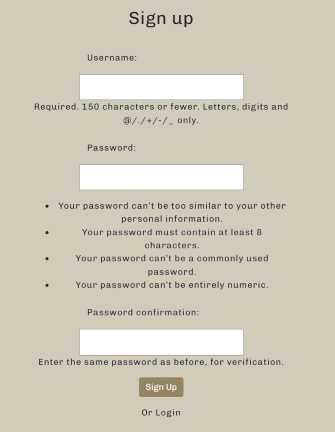
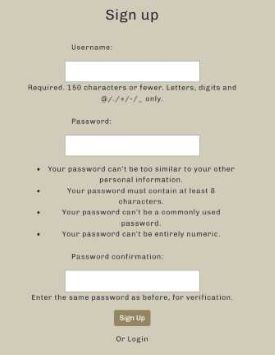
Add style to css and Update redeme

Changed region(s): [[0.4364, 0.031, 0.4945, 0.062], [0.64, 0.2169, 0.6691, 0.2479], [0.4073, 0.4958, 0.4364, 0.5268]]

diff --git a/templates/base.html b/templates/base.html
@@ -15,44 +15,45 @@
   <title>{{ page_title }}</title>
 </head>
 
+</head>
+
 <body>
   <!-- Hero Image -->
   <div class="hero-image" style="background-image: url('{% static 'images/galaxy.jpg' %}')"></div>
-  
-<!-- Header Section -->
-<div class="container-fluid">
-  <div class="row">
-    <div class="col bold">
-      <!-- header content -->
-      <div class="container-lg my-5 header">
-        <h1><a href="{% url 'index' %}" class="text-decoration-none">Sci Fi Book Club</a></h1>
+
+  <!-- Header Section -->
+  <div class="container-fluid">
+    <div class="row">
+      <div class="col bold">
+        <!-- header content -->
+        <div class="container-lg my-5 header">
+          <h1><a href="{% url 'index' %}" class="text-decoration-none">Sci Fi Book Club</a></h1>
+        </div>
+        <!-- navigation menu -->
+        <ul class="nav justify-content-center text-center">
+          <li class="nav-item">
+            <a class="nav-link" href="{% url 'index' %}">Home</a>
+          </li>
+          {% if request.user.is_authenticated %}
+            <!-- User is logged in -->
+            <li class="nav-item">
+              <a class="nav-link" href="{% url 'logout' %}">Logout</a>
+            </li>
+          {% else %}
+            <!-- User is not logged in -->
+            <li class="nav-item">
+              <a class="nav-link" href="{% url 'login' %}">Login</a>
+            </li>
+          {% endif %}
+          {% if request.user.is_authenticated and request.user.is_superuser %}
+            <li class="nav-item">
+              <a class="nav-link" href="{% url 'manager' %}">Manage Books</a>
+            </li>
+          {% endif %}
+        </ul>
       </div>
-      <!-- navigation menu -->
-      <ul class="nav justify-content-center text-center">
-        <li class="nav-item">
-          <a class="nav-link" href="{% url 'index' %}">Home</a>
-        </li>
-        {% if request.user.is_authenticated %}
-          <!-- User is logged in -->
-          <li class="nav-item">
-            <a class="nav-link" href="{% url 'logout' %}">Logout</a>
-          </li>
-        {% else %}
-          <!-- User is not logged in -->
-          <li class="nav-item">
-            <a class="nav-link" href="{% url 'login' %}">Login</a>
-          </li>
-        {% endif %}
-        {% if request.user.is_authenticated and request.user.is_superuser %}
-          <li class="nav-item">
-            <a class="nav-link" href="{% url 'manager' %}">Manage Books</a>
-          </li>
-        {% endif %}
-      </ul>
     </div>
   </div>
-</div>
-
 
   <!-- Messages Section -->
   <div class="container-fluid">

diff --git a/static/css/style.css b/static/css/style.css
@@ -5,8 +5,8 @@ body {
   font-size: 1rem;
   line-height: 1.5rem;
   letter-spacing: 0.06rem;
-  background-color: rgb(209, 203, 186);
-  color: #282030;
+  background-color: #dccfbb;
+  color: rgb(44, 35, 22);
   margin-bottom: 25px;
 }
 
@@ -55,24 +55,25 @@ h2 {
 }
 
 a {
-  color: #282030;
+  color: #433622;
   text-decoration: none;
 }
 
 a:hover {
-  color: rgb(177, 156, 39);
+  color: #a5701a;
+
   text-decoration: none;
 }
 
 .fa-facebook:hover {
-  color: rgb(177, 156, 39);
+  color: #a5701a;
   text-decoration: none;
 }
 
 /* Custom button styles */
 .btn {
-  background-color: #968462;
-  color: #f5f5f5;
+  background-color: #876c44;
+  color: #f7f5f1;
   border: none; /* Remove the default button border */
   transition: background-color 0.3s ease; /* Transition for smooth color change */
 }
@@ -82,8 +83,8 @@ a:hover {
 }
 
 .btn:hover {
-  background-color: rgb(177, 156, 39);
-  border: 1px solid #f5f5f5;
+  background-color: #a5701a;
+  border: 1px solid  #f7f5f1;
 }
 
 /* Popup messages */
@@ -96,8 +97,8 @@ a:hover {
 .messages li {
   list-style: none; /* Remove the list dot */
   padding: 5px;
-  background-color: #f5f5f5;
-  border: 1px solid #362c26;
+  background-color: #f7f5f1;
+  border: 1.5px solid #433622;
   text-align: center;
   margin-bottom: 10px;
 }
@@ -157,7 +158,7 @@ label {
   width: 100%;
   height: 130px;
   display: block;
-  border: 1px solid #968462;
+  border: 1px solid #876c44;
   padding: 5px;
   margin-left: 5px;
   float: left;
@@ -170,7 +171,7 @@ label {
 }
 
 .comment-box {
-  border: 2px solid rgb(233, 230, 221);
+  border: 2px solid #ede7dd;
   padding: 10px;
   margin-bottom: 10px;
 }
@@ -178,15 +179,15 @@ label {
 /* Book container */
 .month-book{
   text-align: center;
-  background-color: rgb(233, 230, 221);
-  border: 10px solid rgb(209, 203, 186);
+  background-color: #ede7dd;
+  border: 10px solid  #dccfbb;
   padding: 10px;
 }
 
 .book-rest{
   text-align: center;
-  background-color: rgb(233, 230, 221);
-  border: 10px solid rgb(209, 203, 186);
+  background-color: #ede7dd;
+  border: 10px solid  #dccfbb;
   padding: 10px;
 }
 

diff --git a/scifi_book_club/settings.py b/scifi_book_club/settings.py
@@ -30,8 +30,7 @@ TEMPLATES_DIR = os.path.join(BASE_DIR, 'templates')
 SECRET_KEY = os.environ.get('SECRET_KEY')
 
 # SECURITY WARNING: don't run with debug turned on in production!
-DEBUG = False
-
+DEBUG = True
 LOGIN_REDIRECT_URL = reverse_lazy('index')
 
 ALLOWED_HOSTS = [

diff --git a/README.md b/README.md
@@ -1,6 +1,6 @@
 # Sci fi Book Club
 #### [View the live project here](https://scifi-book-club.herokuapp.com)
-Welcome to our Sci Fi Book Club website! Our primary goal is to create a vibrant online community where sci fi book enthusiasts can come together to read and discuss their favorite literary works.
+Welcome to my Sci Fi Book Club website! The primary goal is to create a vibrant online community where sci fi book enthusiasts can come together to read and discuss their favorite literary works.
 
 Upon visiting our home page, users are greeted with a captivating display of our current "Book of the Month,"  Additionally, they can easily explore our extensive archive of previous books, providing a wealth of inspiration for their next reading adventure.
 
@@ -9,13 +9,13 @@ Upon visiting our home page, users are greeted with a captivating display of our
 ## UX User experience
 ### Project Goals
 
-Build a website for a book club where members can read and discuss books together. The homepage features the current "Book of the Month" and previous book selections. Users can find book recommendations and engage in discussions with fellow members. Librarians can manage the book collection with CRUD functions, and users can leave comments on books. Create a dynamic and inspiring platform for book lovers to connect and explore literature.
+To build a website for a book club where members can read and discuss books together. The homepage features the current "Book of the Month" and previous book selections. Users can find book recommendations and engage in discussions with fellow members. Librarians can manage the book collection with CRUD functions, and users can leave comments on books. Create a dynamic and inspiring platform for book lovers to connect and explore literature.
 
 ### Strategy
 To ensure an efficient  development process, an Agile methodology was adopted for this project. Specifically, a Kanban approach was implemented using the GitHub Project feature, which allowed for better organization and tracking of tasks.
 
 ### Planning
-GitHub Project and Issues were used for Agile project planning. User Stories with acceptance criteria were defined in GitHub Issues, and development progress was managed on a Kanban board. Each User Story was linked to a parent Epic issue, showing their contribution to the project goal. Acceptance criteria were tested during development and documented in the final manual testing phase.
+GitHub Project and Issues were used for Agile project planning. User Stories with acceptance criteria were defined in GitHub Issues, and development progress was managed on a Kanban board.
 
 ### Epic
 As a book club member, I want to engage in meaningful discussions about books and connect with fellow readers to enhance my reading experience.
@@ -36,7 +36,12 @@ As a book club member, I want to engage in meaningful discussions about books an
 
 
 ## Design
-Beskrivning av designen, tanken bakom färgerna
+Creating a calm atmosphere that brings to mind space, the desert and places as far away as our imagination can stretch has been a basis in the design work. The colors and layout are chosen to be reminiscent of sand craters in a desolate landscape.
+
+To make it easier for the user, all links have an on hoover in a golden color. External links open in another window and the menu bar adapts to the user and the information that makes sense to see.
+
+The colors used are:
+![Colors](assets/images/color_wetsand.jpg)
 
 ### Wireframes
 Wireframes were created using Balsamiq during the planning phase to visualize the website's layout on desktop and mobile devices.
@@ -52,16 +57,24 @@ Wireframes were created using Balsamiq during the planning phase to visualize th
 
 
 ## Features
+
+###  Home page
+On the home page, all users can find the book of the month at the top and earlier books underneath. The page is responsive and display the page different depending on screen size.
+The text color of the books will change color to gold when  cursor focus.
+## ![Home](assets/images/home_p.jpg)
+
 ### Navigation bar
 The top navigation is display differently depending on user validation status. For a not logged in user I contain Home and Login. When logged in it changes to log out. For a logged in Liberian there is also a link to Manage Book.
 The links in the Top Nav will, as al other links and buttons, change color to gold when cursor focus.
 ## ![Navigation bar](assets/images/navigation.png)
 
+### Messages
+Throughout, the user will receive messages about various actions such as, you have logged in, comment deleted and book created successfully.
+## ![Messages](assets/images/messages.jpg)
+
 ### Log in
 The log in page contain a form with username and password. It will validate that the information provided is correct. A correct login redirect the user to home page and provides a message of success login.
-
 Just under the login button, there is also a link to Sign Up if not already.
-
 Both the link and button, change color to gold when  cursor focus.
 ## ![Log in](assets/images/login_p.jpg)
 
@@ -70,23 +83,18 @@ The sign-up page contains a form with username, password and a confirmation pass
 The button will change color to gold when  cursor focus.
 ## ![Sign up](assets/images/signup_p.jpg)
 
-###  Home page
-On the home page, all users can find the book of the month at the top and earlier books underneath. The page is responsive and display the page different depending on screen size.
-The text color of the books will change color to gold when  cursor focus.
-## ![]()
-
 ###  Display single book
 Om this page, all users can reed more about the book.
 A logged-in user can view comments and write a comment. A logged-in user can also delete comments written by them self. The different colored buttons will change color to gold when  cursor focus.
-## ![]()
+## ![Display book](assets/images/book_p.jpg)
 
 ###  Manage book page /Library
 On the Library page, a Liberian /superuser can create a new book by filling in the form. There is also a list of all books and by clicking a book a Liberian can edit or delete it. Before deleting, the page will ask if the user is sure. All Liberians can handle all books. The books in the list of books and different colored buttons will change color to gold when  cursor focus.
-## ![]()
+## ![Library](assets/images/managebook_p.jpg)
 
 ###  Fotter
 The footer tells the user that for contact and to discuss upcoming books, there is a Facebook page. The link opens in a new page, and for now it's Facebook homepage. The link text about Facebook will change color to gold when  cursor focus.
-## ![]()
+## ![Fotter](assets/images/footer_p.jpg)
 
 ###  Features to implement later
 Add hero image and the possibility to load up an image of the book when creating a new book.
@@ -121,10 +129,13 @@ Frameworks, Libraries and Programs Used:
 ## ![CSS validation](assets/images/lithouse.jpg)
 
 -   JSHint
+
+base.html, update_book.html, book_detail,html
 ## ![JShint validation](assets/images/jshint.jpg)
 
 -  CI Python Linter
-Forms.py, Models.py, Views.py
+
+forms.py, models.py, views.py
 ## ![CI Python Linter](assets/images/linter_py.jpg)
 
 
